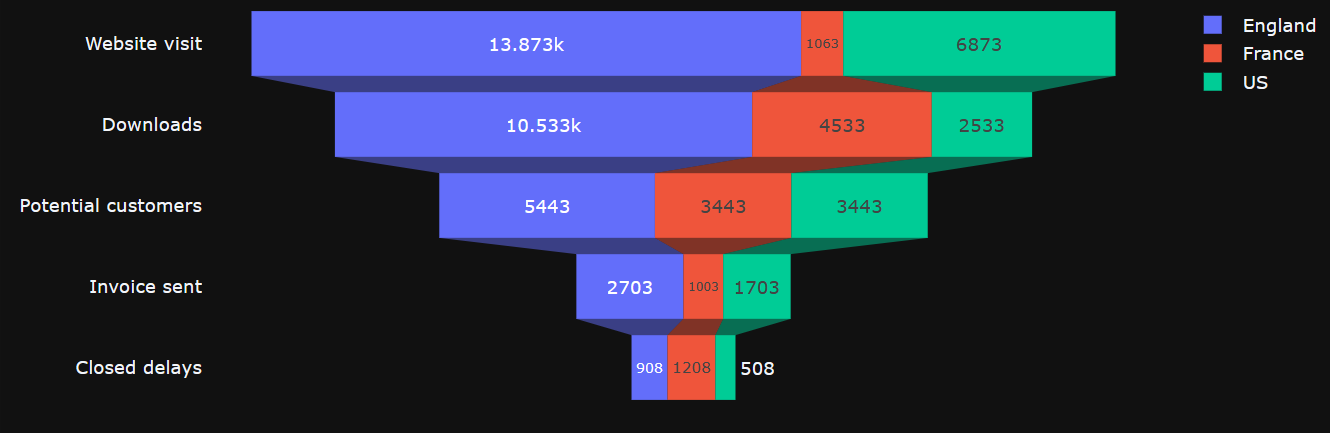
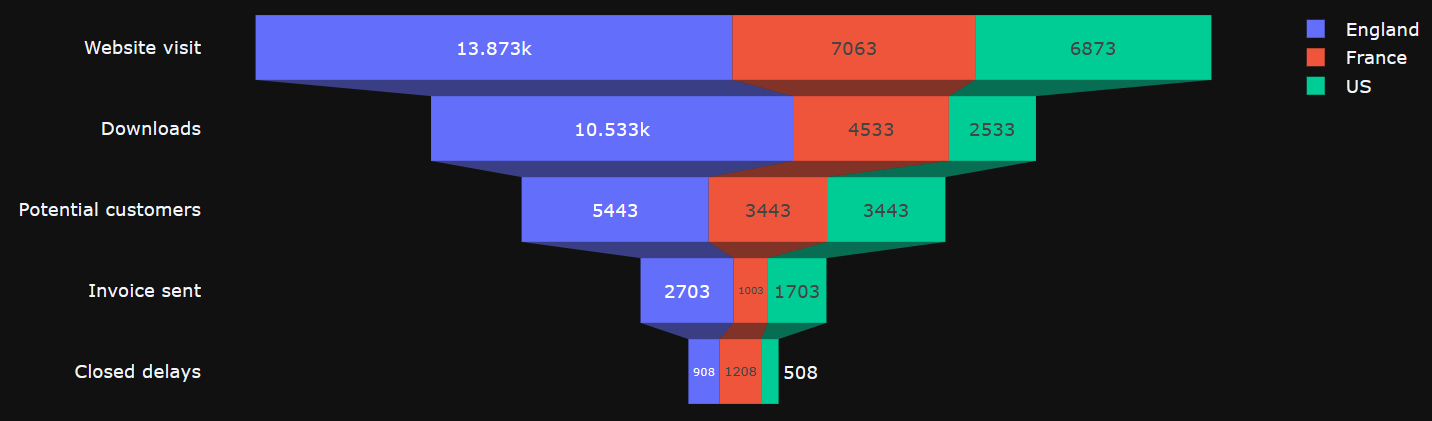
Update doc for funnel chart

diff --git a/docs/manuals/gui/viselements/charts/funnel.md b/docs/manuals/gui/viselements/charts/funnel.md
@@ -3,7 +3,7 @@
 Funnel charts represent a succession of values correlated between each other according to a certain order.
 
 ### Typical use of headmaps
-- The data is sequential and moves through at least 4 stages.
+- The data is sequential and moves through at least 4 stages. If you have less than 4, you can use pie chart or stacked bar chart.
 - The number of "items" in the first stage is expected to be greater than the number in the final stage.
 - To calculate potential (revenue/sales/deals/etc.) by stages.
 - To calculate and track conversion and retention rates.
@@ -12,6 +12,7 @@ Funnel charts represent a succession of values correlated between each other acc
 - To track the progress and success of click-through advertising/marketing campaigns.
 - And more
 
+In order to create a funnel chart in Taipy, you must set the property type of the chart control to "funnel".
 ### Basic Funnel chart
 
 Here is an example of how to use a visits funnel that counts number of visits through stages: "Website visit" > "Downloads" > "Potential customers" > "Invoice sent" > "Closed delays".
@@ -24,6 +25,9 @@ data = pd.DataFrame(
     }
 )
 ```
+- The main value is referenced by x property, in this example, we focus on the number of visits.
+- The axis label is referenced by y property.
+
 !!! example "Page content"
 
     === "Markdown"
@@ -45,18 +49,24 @@ data = pd.DataFrame(
 
 ### Funnel chart with multi traces
 
-With above example, we want to know where the number of visits comes from.
-
+With above example, we want to know where the number of visits comes from. 
+We assume that the visits come from England, France and US. So we create data for each country.
 ```py
 data = pd.DataFrame(
     {
+        # Data for England
         "Visit_fr_eng": [13873, 10533, 5443, 2703, 908],
-        "Visit_fr_fra": [1063, 4533, 3443, 1003, 1208],
+        # Data for France
+        "Visit_fr_fra": [7063, 4533, 3443, 1003, 1208],
+        # Data for US
         "Visit_fr_us": [6873, 2533, 3443, 1703, 508],
         "Types": ["Website visit", "Downloads", "Potential customers", "Invoice sent", "Closed delays"],
     }
 )
 ```
+- x[index] stands for each country data.
+- y for the type that we want to filter
+- name[index] is the label of each country that is shown on the chart.
 !!! example "Page content"
 
     === "Markdown"
@@ -78,18 +88,23 @@ data = pd.DataFrame(
 
 ### Funnel chart with custom markers
 
-Huhm, We want to custom the color and style of markers
+For the first example, we want something colorful, so we put some custom markers into Taipy chart.
 
 ```py
 marker = {
+    # We define colors for each type: "Website visit", "Downloads", "Potential customers", "Invoice sent" and "Closed delays". We have 5 types, so we have to define 5 items for each attribute.
     "color": ["59D4E8", "DDB6C6", "A696C8", "67EACA", "94D2E6"],
+    # This is the border around the rectangle of each type
     "line": {
-        "width": [4, 2, 2, 3, 1, 1],
+        # The border width
+        "width": [4, 2, 2, 3, 1],
+        # The border color
         "color": ["3E4E88", "606470", "3E4E88", "606470", "3E4E88"]
     }
 }
 
 options= {
+    # the connector is the line between 2 rectangles, yes, we can change its'styles too.
     "connector": {
         "line": {
             "color": "royalblue",
